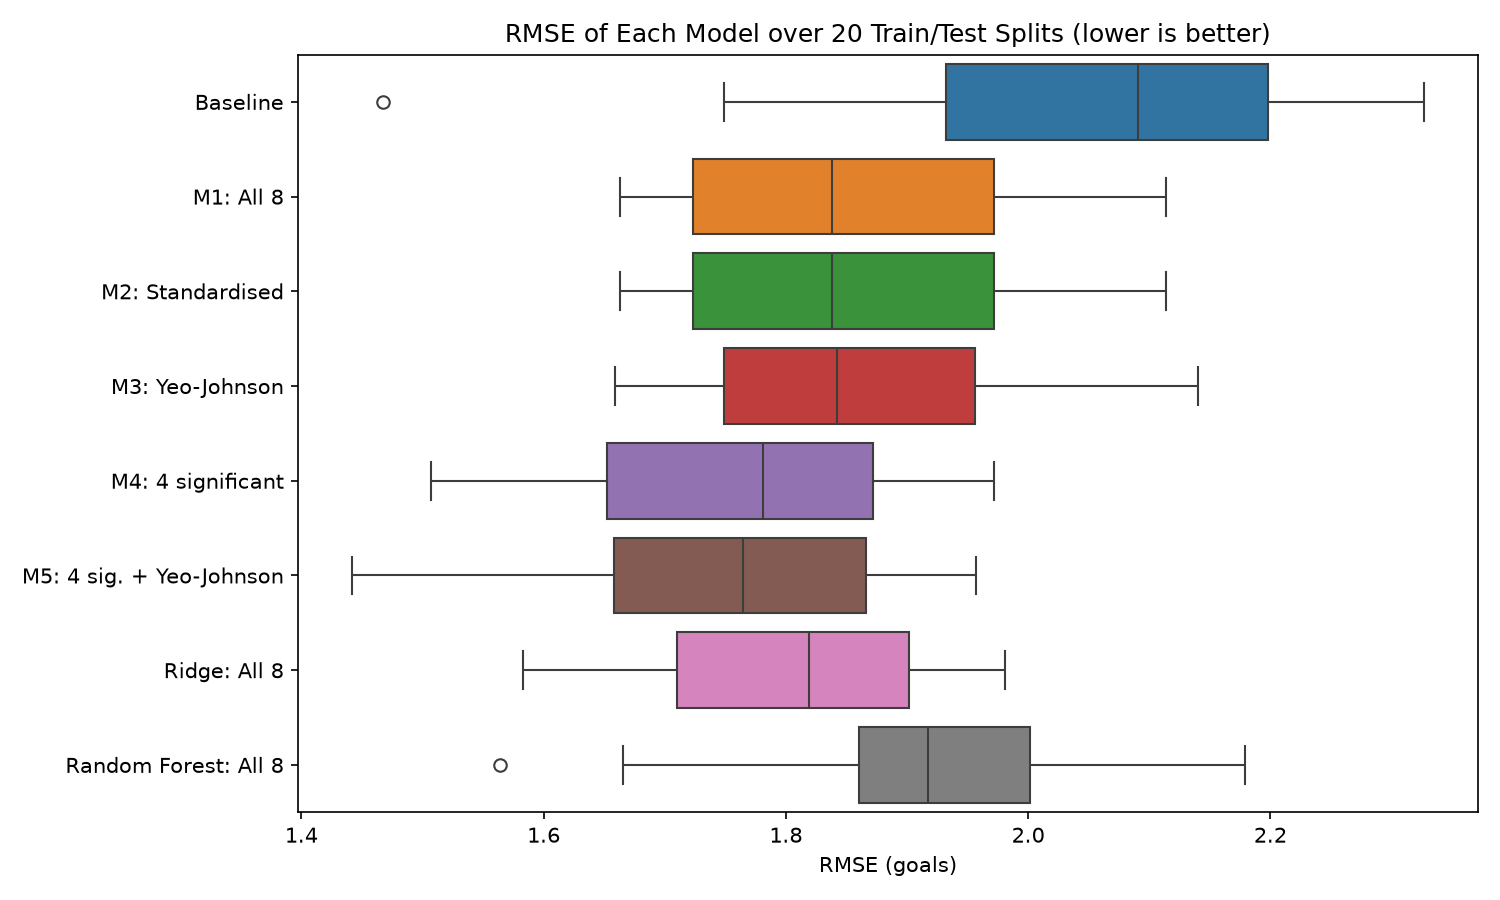
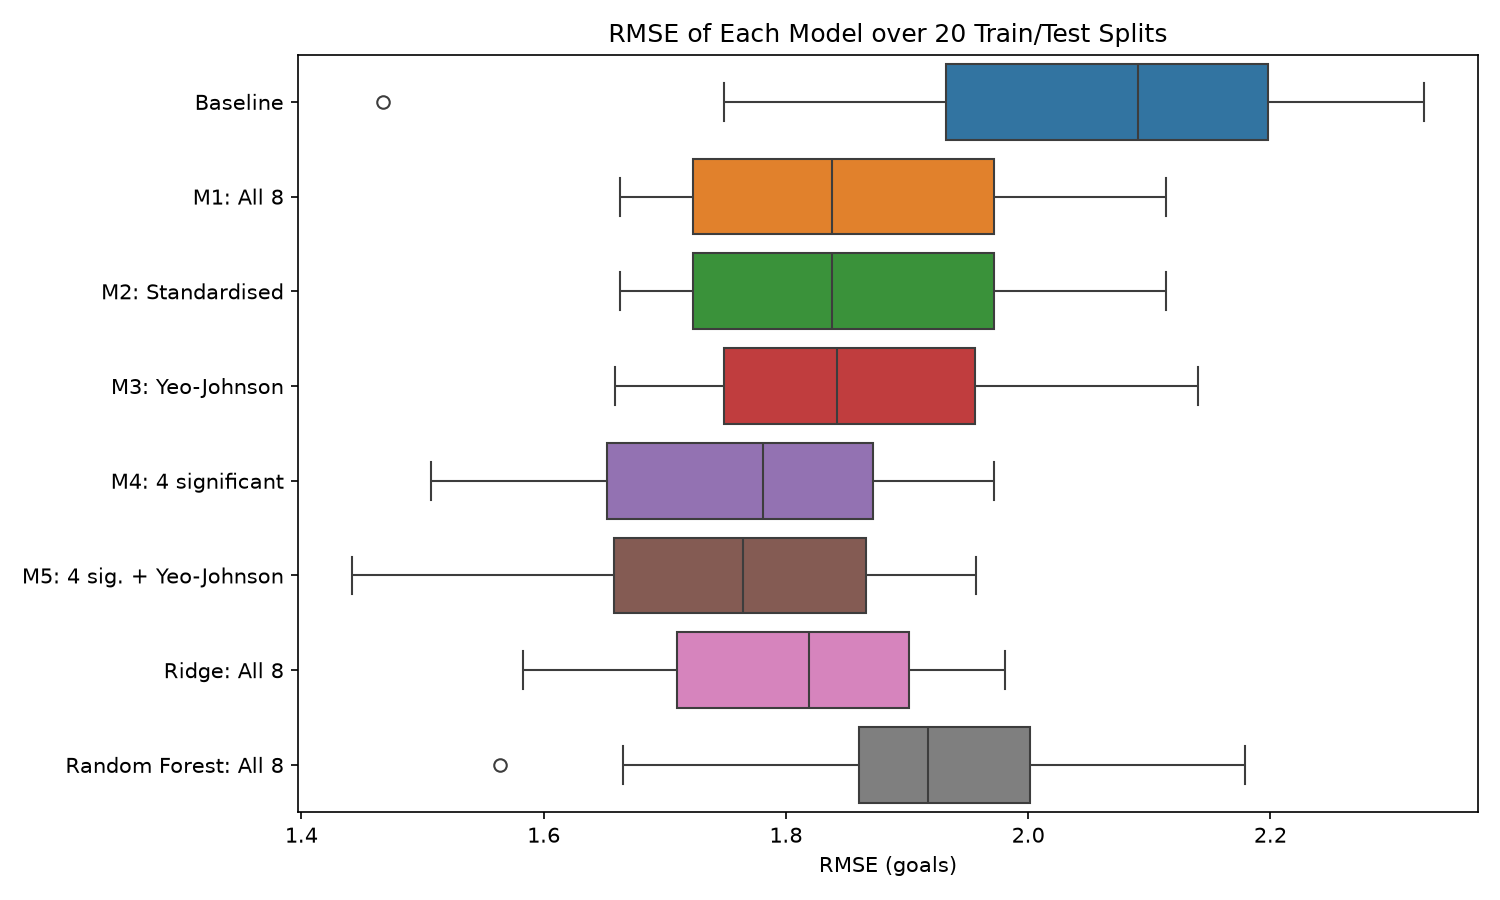
Final Code Run

Changed region(s): [[0.3373, 0.0311, 0.8587, 0.0622]]

diff --git a/2.1/regression_2.1.py b/2.1/regression_2.1.py
@@ -288,7 +288,7 @@ print(model2.summary())
 plt.figure(figsize=(10, 5))
 plt.bar(x_data.keys(), model2.params[1:])
 plt.ylabel("Standardised coefficient")
-plt.title("Effect of Each Variable on Goal Difference (bigger bar = stronger effect)")
+plt.title("Effect of Each Variable on Goal Difference")
 plt.xticks(rotation=20, horizontalalignment="right")
 plt.tight_layout()
 plt.savefig("../figures/2.1_coefficients.png", dpi=150)
@@ -429,7 +429,7 @@ plt.ylabel("Predicted Goal Difference")
 plt.subplot(1, 2, 2)
 plt.scatter(pred_y, residuals)
 plt.plot([min(pred_y), max(pred_y)], [0, 0], color="red")
-plt.title("Residuals (should be spread evenly around 0)")
+plt.title("Residuals")
 plt.xlabel("Predicted Goal Difference")
 plt.ylabel("Residual (Actual - Predicted)")
 plt.tight_layout()
